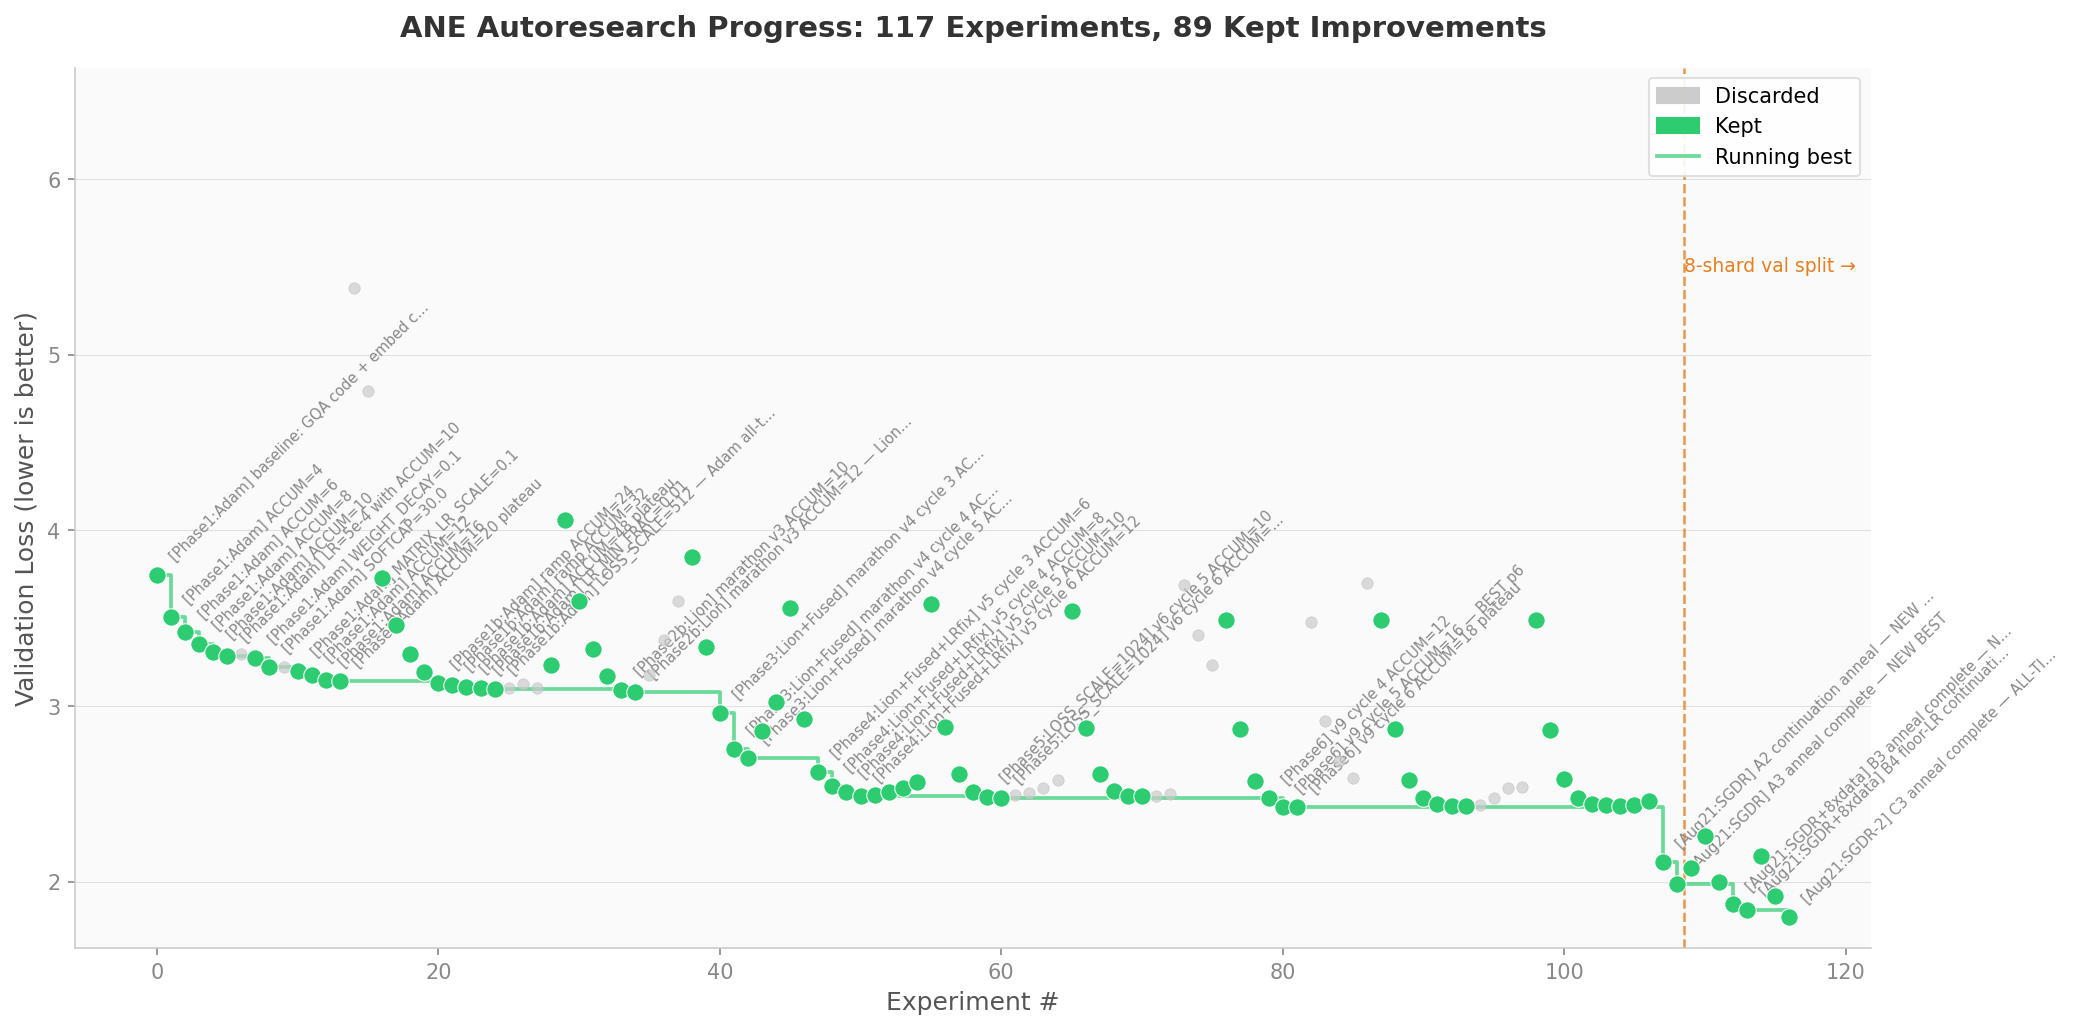
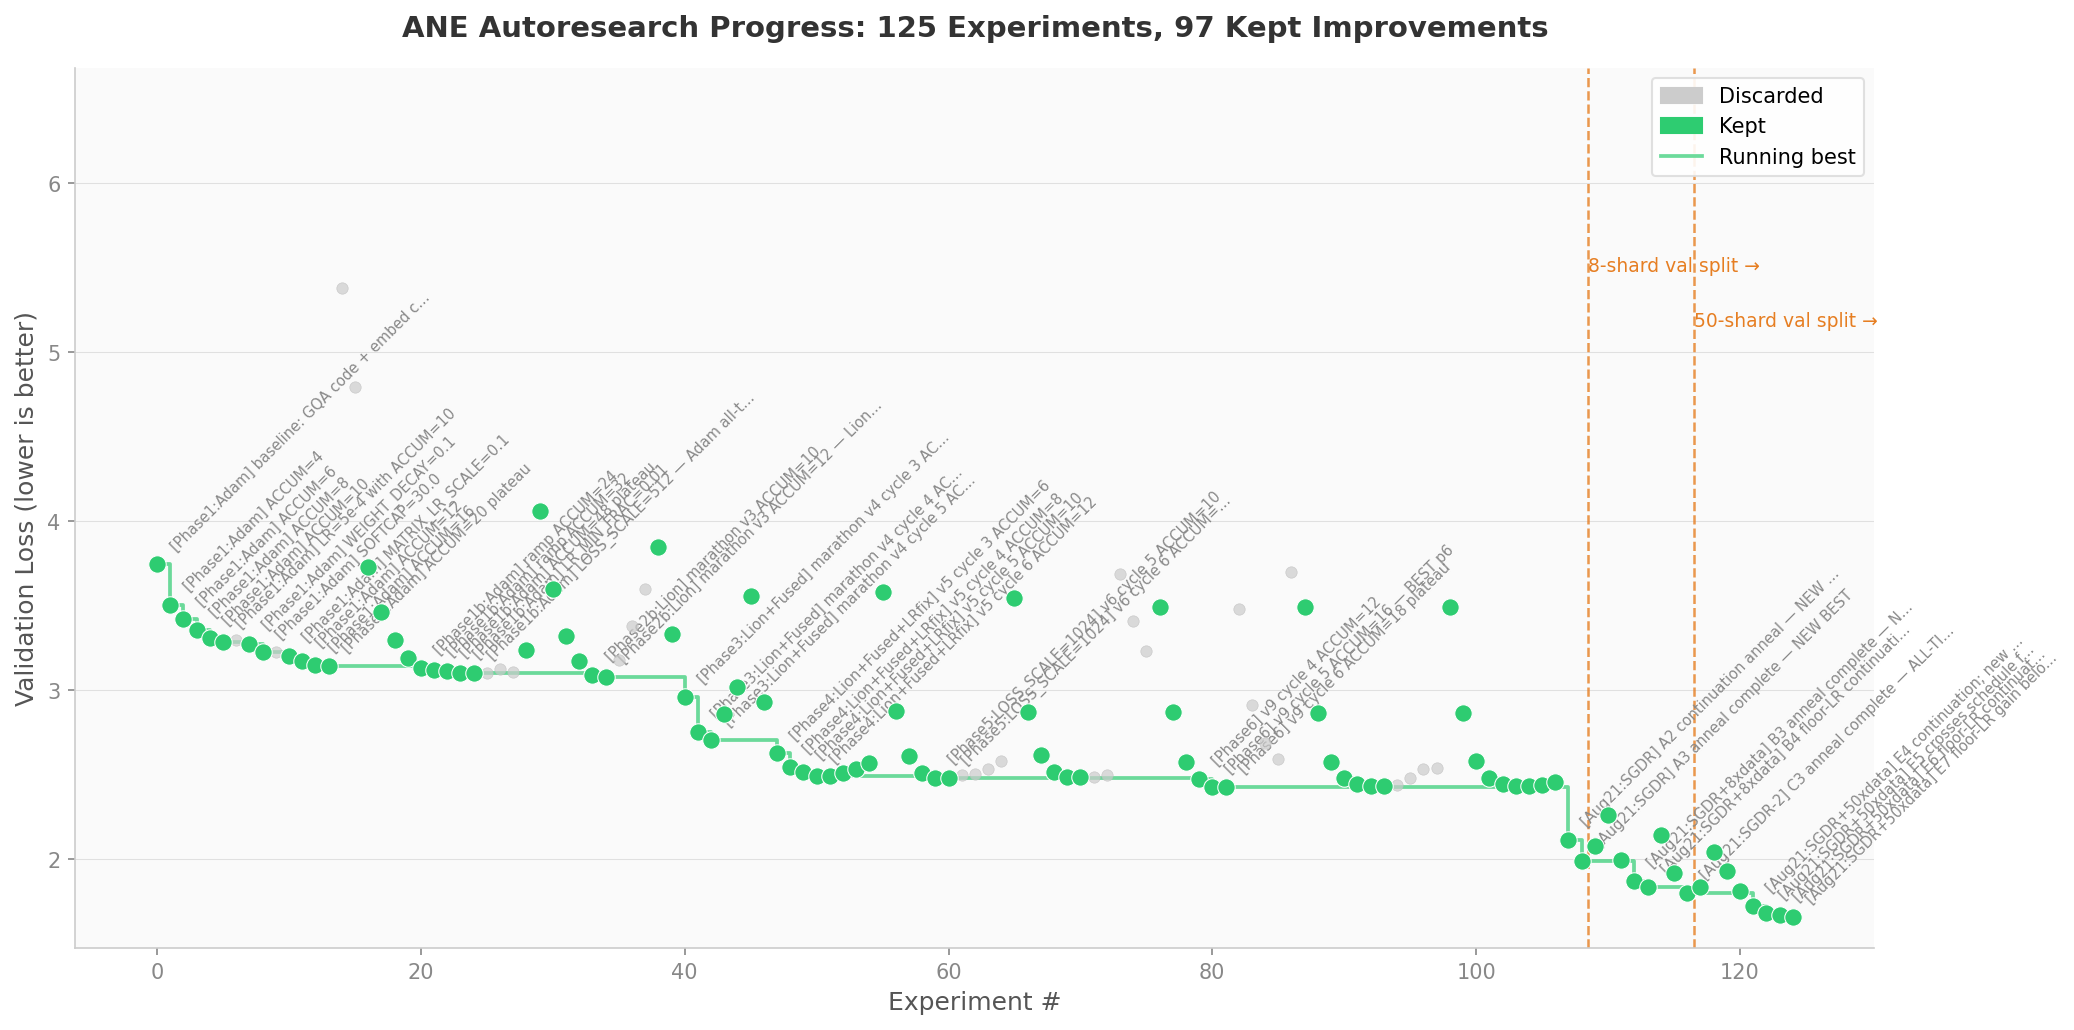
exp: full 50-shard Arc E — val_loss 1.835299→1.659077

diff --git a/plot_progress.py b/plot_progress.py
@@ -20,9 +20,15 @@ with open('results.tsv') as f:
             'desc': r['description'].strip(),
         })
 
-# Index of the 8-shard val-split calibration row (val numbers after it are on
-# the harder split — mark the boundary so the two segments aren't compared raw)
-split_x = next((i for i, r in enumerate(rows) if '[aug21:calib]' in r['desc'].lower()), None)
+# Indices of val-split calibration rows (each data expansion changes the
+# evaluation segment, so mark every boundary rather than comparing raw values)
+split_markers = []
+for i, r in enumerate(rows):
+    desc = r['desc'].lower()
+    if '[aug21:calib]' in desc:
+        split_markers.append((i, '8-shard val split →'))
+    elif '[aug21:calib50]' in desc:
+        split_markers.append((i, '50-shard val split →'))
 
 n = len(rows)
 xs = list(range(len(rows)))
@@ -87,12 +93,15 @@ for spine in ['bottom', 'left']:
 
 ax.tick_params(colors='#888888', labelsize=10)
 
-# Dashed marker where the val split changed (Aug 21 data expansion)
-if split_x is not None:
-    ax.axvline(split_x - 0.5, color='#e67e22', linewidth=1.2, linestyle='--',
-               alpha=0.8, zorder=2)
-    ax.text(split_x - 0.5, ax.get_ylim()[1], '8-shard val split →',
-            fontsize=9, color='#e67e22', ha='left', va='top')
+# Dashed markers where the val split changed (Aug 21 data expansions)
+if split_markers:
+    y_bottom, y_top = ax.get_ylim()
+    y_span = y_top - y_bottom
+    for marker_i, (split_x, label) in enumerate(split_markers):
+        ax.axvline(split_x - 0.5, color='#e67e22', linewidth=1.2,
+                   linestyle='--', alpha=0.8, zorder=2)
+        ax.text(split_x - 0.5, y_top - marker_i * 0.08 * y_span, label,
+                fontsize=9, color='#e67e22', ha='left', va='top')
 
 legend = [
     mpatches.Patch(color='#cccccc', label='Discarded'),

diff --git a/ane/experiment_config.h b/ane/experiment_config.h
@@ -11,7 +11,7 @@
 #define ADAM_BETA1 0.9f
 #define ADAM_BETA2 0.95f
 #define ADAM_EPS 1e-8f
-// Best ACCUM found: 12-14 with LOSS_SCALE=1024, EMBED_LR=1.0
+// Current best ACCUM: 2 with SGDR restarts and full-data continuation.
 #define ACCUM_STEPS 2
 #define GRAD_CLIP_MAX 1.0f
 #define WEIGHT_DECAY 0.1f

diff --git a/README.md b/README.md
@@ -96,7 +96,7 @@ This fork adds an **ANE training backend** that runs transformer training direct
 
 ### Current best results
 
-**val_loss = 1.800504** (August 2026: SGDR warm restarts + 8-shard dataset on top of ~95 cycles across 7 phases; ~67M param model, 5-min budget per cycle. Previous milestones: 2.432 April, 2.320954 June.)
+**val_loss = 1.659077** (August 2026: full 50-shard TinyStories dataset, SGDR warm restarts; ~67M-param model, 5-min budget per cycle. Previous milestones: 2.432 April, 2.320954 June, 1.800504 on 8 shards.)
 
 Starting from 6.109 baseline, key improvements discovered through autonomous experimentation:
 
@@ -113,6 +113,7 @@ Starting from 6.109 baseline, key improvements discovered through autonomous exp
 | **+ kernel fusion** | **Fused sdpaWoFwd + qkvBwd mega-kernels** | **2.489** | **96** | **~2822** |
 | **+ LOSS_SCALE=1024** | **Better FP16 gradient stability (from Slavko ecosystem)** | **2.477** | **97** | **~2800** |
 | **+ EMBED_LR=1.0** | **Equal LR for embeddings (was 2x, overfitting)** | **2.432** | **99** | **~2700** |
+| **+ SGDR + full data** | **Warm restarts + all 50 shards (~1.025B tokens)** | **1.659** | **158–173** | **~1200–1300** |
 
 ### Key discoveries
 
@@ -122,8 +123,9 @@ Starting from 6.109 baseline, key improvements discovered through autonomous exp
 - **Vocab compaction** (3.5x classifier speedup): Only ~9K of 32K tokens appear in TinyStories. Reducing the classifier SGEMM from 32K to 9K vocab is free accuracy-wise.
 - **ACCUM ramping**: Start with low ACCUM (noisy but many updates) for early training, ramp up each cycle for smoother gradients. Sweet spot: ACCUM=12-14 for Lion, ACCUM=20-48 for Adam.
 - **LR schedule tuning is critical for multi-cycle runs**: TOTAL_STEPS must match the actual training window. Too high → model overfits (train_loss=0.87, val_loss=3.9). Too low → LR exhausts early, later cycles waste time.
+- **SGDR warm restarts**: Resetting the exhausted `adam_t` cosine counter re-anneals LR from peak on a good checkpoint. The first window looks worse while LR reheats; judge the full 3-window arc. Two arcs plus data expansion took val_loss from 2.320954 to 1.659077.
 - **LOSS_SCALE=1024** (April 2026, from ecosystem): Slavko/ANE-Training benchmarks show FP16 gradient underflow is worse than expected. LOSS_SCALE=1024 (up from 512) stabilizes the backward pass and prevents silent gradient vanishing. Improved val_loss from 2.489 to 2.477.
-- **EMBED_LR_SCALE=1.0** (April 2026): Embeddings were overfitting with 2× base LR. Equal LR (1.0) for both embeddings and norms gave better generalization, pushing val_loss from 2.477 to 2.432. The embedding matrix is already the largest parameter block (8M of 67M params) and doesn't need extra LR.
+- **EMBED_LR_SCALE=1.0** (April 2026): Embeddings were overfitting with 2× base LR. Equal LR (1.0) for both embeddings and norms gave better generalization, pushing val_loss from 2.477 to 2.432; this equal-LR setting remains in the current 1.659077 run.
 - **Adam is worse than Lion here** (April 2026): Tested Adam (LR=3e-4) against Lion (LR=5e-4). Adam achieved val_loss=3.23 after 3 cycles at ~99ms/step, significantly worse than Lion's 2.51 at the same point. Lion's sign-based updates are more robust for ANE's FP16 compute path.
 
 ### What didn't work
@@ -160,14 +162,14 @@ The agent edits `ane/experiment_config.h`. All hyperparameters and their current
 
 | Parameter | Value | Notes |
 |---|---|---|
-| `LEARNING_RATE` | 5e-4f | Base learning rate (scaled by differential LR multipliers below) |
+| `LEARNING_RATE` | 3.8e-4f | Base peak LR in the current full-dataset run; historical 5e-4f result predates valid resume overrides |
 | `ADAM_BETA1` | 0.9f | First moment decay (used by both Adam and Lion) |
 | `ADAM_BETA2` | 0.95f | Second moment decay / Lion momentum update |
 | `ADAM_EPS` | 1e-8f | Adam epsilon (unused by Lion) |
-| `ACCUM_STEPS` | 12 | Gradient accumulation steps per weight update + restage. Ramp up during training (2→12) |
+| `ACCUM_STEPS` | 2 | Gradient accumulation steps per weight update + restage; current best after SGDR/data expansion (older 2→12 ramp remains historical) |
 | `GRAD_CLIP_MAX` | 1.0f | Global L2 gradient norm clip threshold |
 | `WEIGHT_DECAY` | 0.1f | Decoupled weight decay. Applied only to weight matrices, not embeddings or RMSNorm |
-| `TOTAL_STEPS` | 3000 | Cosine LR schedule denominator (adam_t units). Must match optimal training window |
+| `TOTAL_STEPS` | 3000 | Cosine LR schedule denominator (`adam_t` units); reset with `--reset-schedule` for a new SGDR arc |
 | `LR_WARMUP_STEPS` | 100 | Linear warmup steps before cosine decay |
 | `LR_MIN_FRAC` | 0.1f | Cosine schedule decays LR to this fraction of max |
 | `LOSS_SCALE` | 1024.0f | Loss scaling factor — prevents FP16 gradient underflow. 1024 (up from 512) gives better FP16 stability |
@@ -177,7 +179,7 @@ The agent edits `ane/experiment_config.h`. All hyperparameters and their current
 | `USE_LION` | 1 | Lion optimizer (sign-based updates, no second moment, ~2x faster per update) |
 | `USE_VOCAB_COMPACT` | 1 | Vocab compaction: 32K→9K active tokens, 3.5x classifier SGEMM speedup |
 
-**Optimizer features**:
+**Optimizer features**
 
 - **Lion optimizer** (default) — sign-based weight updates: `w -= lr * sign(β1*m + (1-β1)*g)`, no second moment buffer. ~2x faster per update than Adam, half the optimizer memory. Toggle `USE_LION` to switch back to AdamW.
 - **Gradient clipping** — global L2 norm across all parameters using vDSP
@@ -266,13 +268,13 @@ This project builds on and references the following repositories:
 
 ### Recent findings from the ecosystem (June–August 2026)
 
-**Current local best** (our ANE autoresearch, August 2026): `val_loss=1.800504` with Lion + `LOSS_SCALE=1024` + `EMBED_LR_SCALE=1.0` + `ACCUM_STEPS=2`, reached from the June 2.320954 anchor via two SGDR warm-restart cycles on an expanded 8-shard dataset (~158M tokens). Two validity fixes made this possible: resume now honors config `LEARNING_RATE`/`TOTAL_STEPS` (the checkpoint header used to silently override them), and a new `--reset-schedule` flag re-anneals the cosine schedule (`ANE_RESET_SCHEDULE=1`). See `ane/autoresearch.md` and `updates/analysis-2026-08-21.md`.
+**Current local best** (our ANE autoresearch, August 2026): `val_loss=1.659077` with Lion + `LOSS_SCALE=1024` + `EMBED_LR_SCALE=1.0` + `ACCUM_STEPS=2`, reached from the June 2.320954 anchor via SGDR warm restarts and all 50 TinyStories shards (~1.025B tokens). Three validity fixes made this possible: resume now honors config `LEARNING_RATE`/`TOTAL_STEPS` (the checkpoint header used to silently override them), `--reset-schedule` re-anneals the cosine schedule, and sampling uses a wall-clock seed. See `ane/autoresearch.md` and `updates/analysis-2026-08-21.md`.
 
 **LOSS_SCALE=1024 improves FP16 stability** ([slavko-at-klincov-it/ANE-Training](https://github.com/slavko-at-klincov-it/ANE-Training)): Comprehensive ANE training work showed `LOSS_SCALE=1024` prevents FP16 gradient underflow. Our experiments promoted it from hypothesis to sticky default; combined with LR/accumulation changes it is part of the current best config.
 
-**Embedding LR equalization** (our experiments, April–June 2026): `EMBED_LR_SCALE=1.0` beats higher embedding LR. The embedding matrix overfits with a 2× scale; equal LR was the highest-impact Phase 6 change and remains in the 2.320954 best run.
+**Embedding LR equalization** (our experiments, April–August 2026): `EMBED_LR_SCALE=1.0` beats higher embedding LR. The embedding matrix overfits with a 2× scale; equal LR remains in the current 1.659077 full-dataset run.
 
-**Accumulation trajectory sensitivity** (our experiments, June 2026): From the anchored checkpoint, lowering accumulation to `ACCUM_STEPS=2` improved best val_loss to 2.320954. Fresh restarts did not reproduce the same path, so future autoresearch should treat checkpoint lineage as an experimental variable.
+**Accumulation trajectory sensitivity** (our experiments, June–August 2026): From the anchored checkpoint, lowering accumulation to `ACCUM_STEPS=2` improved best val_loss to 2.320954. Subsequent SGDR restarts and data expansion improved it to 1.659077 on the full 50-shard split; checkpoint lineage remains an experimental variable.
 
 **Rust ANE scale probes** ([ncdrone/rustane](https://github.com/ncdrone/rustane)): Rustane reports full training validation through 5B parameters and forward-only probes through 30B on M4 Max 128GB. The actionable lesson for this repo is shape discipline: wide/shallow vs deep/narrow crossovers matter, and dim=5120 is an efficiency cliff.
 

diff --git a/ane/autoresearch.md b/ane/autoresearch.md
@@ -1,10 +1,10 @@
 # ANE autoresearch log
 
 ## Current best known
-- `val_loss`: **1.800504** (2026-08-21, evaluated on the 8-shard val split)
-- Lineage: the 2026-05-26 anchor (2.320954) → two full SGDR warm-restart cycles on shards 00–07
+- `val_loss`: **1.659077** (2026-08-21, evaluated on the full 50-shard val split)
+- Lineage: the 2026-05-26 anchor (2.320954) → two 8-shard SGDR cycles → full-dataset Arc E
 - Key config: Lion + `LOSS_SCALE=1024` + `EMBED_LR_SCALE=1.0` + `ACCUM_STEPS=2` + `LEARNING_RATE=3.8e-4`
-- Checkpoints preserved: `ckpt_best_1.800504.bin` (best), `ckpt_best_1.836396.bin`, `ckpt_best_1.869944.bin`, `ckpt_best_1.988286.bin`, `ckpt_anchor_2.320954.bin` (pre-session anchor)
+- Checkpoints preserved: `ckpt_best_1.659077.bin` (best), `ckpt_E6_1.667089.bin`, `ckpt_E5_1.679940.bin`, `ckpt_E4_1.721839.bin`, `ckpt_E3_1.808984.bin`, plus prior `ckpt_best_1.800504.bin` and `ckpt_anchor_2.320954.bin`
 
 ## Validity fixes (2026-08-21, commit b42ac5f) — read before interpreting older entries
 Source inspection found three issues that invalidated parts of the pre-August-21 record:
@@ -13,7 +13,11 @@ Source inspection found three issues that invalidated parts of the pre-August-21
 3. **Fixed sampling seed**: `srand48(42 + start_step)` replayed the identical batch order every resumed window. Fixed: wall-clock seed.
 
 ## Data expansion (2026-08-21)
-`tinystories_data00.bin` is now the concatenation of shards 00–07 (~158M tokens; previously shard 00 only, ~19.7M tokens). The original single shard is preserved as `tinystories_data00_shard00_only.bin`. The val split moved to the last 10% of shard 07 and is ~0.09 harder: the 1.988286 checkpoint scores 2.078751 on the new split vs 1.988286 on the old one. Cross-split comparisons are not valid; use the calibrated bar.
+`tinystories_data00.bin` first became shards 00–07 (~165M tokens; previously shard 00 only), then was expanded to all 50 shards (~1.025B tokens). The original single shard is preserved as `tinystories_data00_shard00_only.bin`; the 8-shard intermediate is `tinystories_8shard.bin`. Each expansion changes the val split, so the incumbent was calibrated before comparison.
+
+
+## 8-shard data expansion details (2026-08-21)
+`tinystories_data00.bin` is now the concatenation of shards 00–07 (~165M tokens; previously shard 00 only, ~20.7M tokens). The original single shard is preserved as `tinystories_data00_shard00_only.bin`. The val split moved to the last 10% of shard 07 and is ~0.09 harder: the 1.988286 checkpoint scores 2.078751 on the new split vs 1.988286 on the old one. Cross-split comparisons are not valid; use the calibrated bar.
 
 ## Local cycle (2026-08-21) — SGDR arc A (shard-00 data)
 - Change: warm restart (`adam_t 2611 → 0`) from the 2.320954 anchor, then two continuation windows.
@@ -30,10 +34,17 @@ Source inspection found three issues that invalidated parts of the pre-August-21
 - Results: C1 `2.143164` (mid-anneal), C2 `1.919288`, C3 `1.800504` (anneal complete).
 - Verdict: **keep all**; C3 is the all-time best. Restart arcs currently yield ~−0.03..−0.05 per full cycle; continuation windows after an arc yield <−0.01.
 
+## Local cycle (2026-08-21) — SGDR arc E (all 50 shards)
+- Change: full TinyStories archive, shards 00–49, concatenated into `tinystories_data00.bin` (~1.025B tokens); warm restart from the 1.800504 lineage, then floor-LR continuation.
+- Calibration: the 1.800504 checkpoint scored `1.835299` on the new full-dataset val split. Use this as the same-split baseline; old 1.800504 and new 1.835299 are not directly comparable.
+- Results: E1 `2.042875` (mid-anneal), E2 `1.931931`, E3 `1.808984`, E4 `1.721839`, E5 `1.679940` (schedule crossed floor), E6 `1.667089`, E7 `1.659077`.
+- Runtime: sustained ANE work thermally throttled this arc to 158–173 ms/step and 3.6–4.1% reported utilization, versus ~105 ms/step on the preceding 8-shard arc.
+- Verdict: **keep all**; E7 improves the calibrated baseline by `0.176222`. The final floor-LR gain was `0.008012`, below the `0.01/window` continuation threshold; stop and restart for the next arc.
+
 ## Protocol going forward
-1. Compare candidates only against results on the same val split (current bar for any new idea: beat `1.800504`).
+1. Compare candidates only against results on the same val split (current bar for any new idea: beat `1.659077` on the full 50-shard split).
 2. When per-window gains decay below ~0.01, run a fresh warm-restart arc (`ANE_RESET_SCHEDULE=1`, 3 windows) rather than more floor-LR continuations.
-3. There are still 42 unused shards (`data08`–`data49` in the HF archive); expanding data further is the cheapest known lever.
+3. All 50 available shards are now active; further gains require better optimization, throughput, or a new dataset.
 4. `ms_per_step` excludes the optimizer/restage block, which consumes ~27% of wall time — see `updates/analysis-2026-08-21.md` for the remaining Tier-2 levers.
 
 ## Latest local cycle (2026-08-20)

diff --git a/updates/analysis-2026-08-21.md b/updates/analysis-2026-08-21.md
@@ -109,3 +109,20 @@ The update block does: full-parameter gradient-averaging pass (66M params), glob
 ## Bottom line
 
 The pipeline work (fusion, dynamic weights, compaction) is genuinely strong, and 6.109 → 2.320954 is real progress. But the last ~30 recorded experiments largely re-measured noise: two swept knobs were silently inert, the schedule was floored, and the data order was frozen. The three cheapest credible paths to a better score are: **warm-restart the anneal (P0.2 + P1.4)**, **feed more of the already-downloaded dataset (P1.5)**, and **cut the hidden 27% update overhead (P2.8)** — in that order. Architecture exploration should go smaller/faster (SEQ=256 first), not bigger.
+
+## Outcome update (2026-08-22)
+
+The recommended warm-restart and data-expansion path was executed on a new `autoresearch-ane/aug21` branch after merging the previous PR. All 50 TinyStories shards were concatenated into the existing data path: `2,049,843,216` bytes = `1,024,921,608` uint16 tokens (~1.025B; 90% train split).
+
+The prior 1.800504 lineage was first calibrated on the new val split at **1.835299**. Arc E then ran one warm restart plus six continuations:
+
+```
+E1 2.042875  E2 1.931931  E3 1.808984  E4 1.721839
+E5 1.679940  E6 1.667089  E7 1.659077
+```
+
+E7 improves the same-split calibrated baseline by `0.176222`. The final E6→E7 gain was `0.008012`, below the `0.01/window` continuation threshold, so the arc stopped. The live checkpoint is preserved as `ane/ckpt_best_1.659077.bin`; its header reads `adam_t=4411`, confirming the schedule is at the floor.
+
+The full-data run exposed the known thermal limit: sustained step time rose to 153–173 ms (3.6–4.1% reported ANE utilization) versus ~105 ms on the preceding 8-shard arc. A 10-minute cooldown did not restore the earlier rate, so this result is quality-positive but not a throughput improvement.
+
+The chart now contains 125 experiments and marks both val-split changes. New rows are in `results.tsv`; `ane/autoresearch.md` contains the operational protocol and Arc E record.

diff --git a/program_ane.md b/program_ane.md
@@ -49,7 +49,7 @@ Each experiment runs on the Apple Neural Engine. The training binary runs for a 
 
 **Simplicity criterion**: All else being equal, simpler is better. A small improvement from a radical architecture change that loses checkpoint progress may not be worth it compared to a hyperparameter tweak.
 
-**Current best-known ANE result (2026-06-25)**: `val_loss=2.320954` with Lion + `LOSS_SCALE=1024` + `EMBED_LR_SCALE=1.0` + `ACCUM_STEPS=2`. Treat this as the sticky baseline unless a new run proves otherwise. The June source scan also flags dispatch-count reduction, fused optimizer updates, embedding lookup speedups, and shape/tiling discipline as the most promising non-config improvement paths.
+**Current best-known ANE result (2026-08-22)**: `val_loss=1.659077` on the full 50-shard TinyStories file (~1.025B tokens), with Lion + `LEARNING_RATE=3.8e-4` + `LOSS_SCALE=1024` + `EMBED_LR_SCALE=1.0` + `ACCUM_STEPS=2`. It came from the 2.320954 checkpoint via two 8-shard SGDR arcs and one full-data SGDR arc. `--reset-schedule` (or `ANE_RESET_SCHEDULE=1`) resets `adam_t` to re-anneal a good checkpoint; compare only within the same validation split. The earlier June source scan flags dispatch-count reduction, fused optimizer updates, embedding lookup speedups, and shape/tiling discipline as the most promising non-config improvement paths.
 
 **The first run**: Your very first run should always be to establish the baseline, so you will run the training script as is.
 
